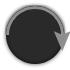
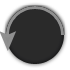
Added mixer plans

Changed region(s): [[0.7714, 0.4286, 1.0, 0.7429], [0.0, 0.4286, 0.2286, 0.7429]]

diff --git a/GGJ2012/MixerView.m b/GGJ2012/MixerView.m
@@ -10,6 +10,9 @@
 #import "MixerCircleView.h"
 
 
+#define kMixerPlanMaxNumber     6
+
+
 @interface MixerView ()
 
 - (void) handleRotationWithView:(MixerCircleView *)view gesture:(UIRotationGestureRecognizer *)gesture;
@@ -22,6 +25,7 @@
 - (void) bottomAction:(int)direction;
 
 @property (nonatomic, strong) NSMutableArray *planViews;
+@property (nonatomic, assign) NSInteger lastPlanIndex;
 
 @end
 
@@ -35,6 +39,7 @@
 @synthesize bottomCircleView = _bottomCircleView;
 
 @synthesize planViews = _planViews;
+@synthesize lastPlanIndex = _lastPlanIndex;
 
 - (id) initWithLeftComponent:(CapsuleComponents)leftComponent rightComponent:(CapsuleComponents)rigtComponent
 {
@@ -77,6 +82,18 @@
         rotationGesture = [[UIRotationGestureRecognizer alloc] initWithTarget:self action:@selector(bottomGesture:)];
         [rotationGesture requireGestureRecognizerToFail:tapGesture];
         [_bottomCircleView addGestureRecognizer:rotationGesture];
+        
+        CGFloat originX = floorf((frame.size.width - 70 * kMixerPlanMaxNumber) / 2);
+        _planViews = [[NSMutableArray alloc] init];
+        
+        for (int i = 0; i < kMixerPlanMaxNumber; i++) {
+            UIImageView *view = [[UIImageView alloc] initWithFrame:CGRectMake(originX + i * 70.0, CGRectGetMaxY(_bottomCircleView.frame) + 10.0, 
+                                                                              70.0, 70.0)];
+            [view setImage:[UIImage imageNamed:@"MixerCricleEmpty"]];
+            [view setBackgroundColor:[UIColor clearColor]];
+            [self addSubview:view];
+            [_planViews addObject:view];
+        }
     }
     return self;
 }
@@ -201,10 +218,17 @@
                                  [view.background setTransform:transform];
                              }
                              completion:^(BOOL finished) {
-                                 if (view == _topCircleView)
+                                 UIImageView *imageView = [_planViews objectAtIndex:_lastPlanIndex];
+                                 
+                                 if (view == _topCircleView) {
                                      [self topAction:direction];
-                                 else
+                                     [imageView setImage:[UIImage imageNamed:direction == 1 ? @"MixerCricleDown" : @"MixerCricleDown2"]];
+                                 } else {
                                      [self bottomAction:direction];
+                                     [imageView setImage:[UIImage imageNamed:direction == 1 ? @"MixerCricleUp2" : @"MixerCricleUp"]];
+                                 }
+                                 if (_lastPlanIndex + 1 < kMixerPlanMaxNumber)
+                                     _lastPlanIndex++;
                              }];
             [gesture setEnabled:YES];
         }
